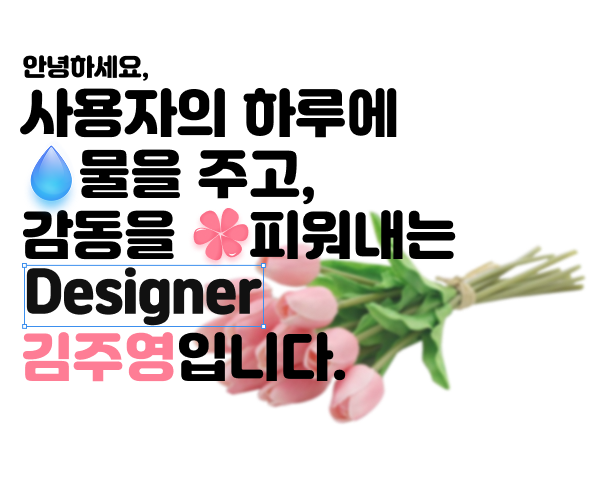
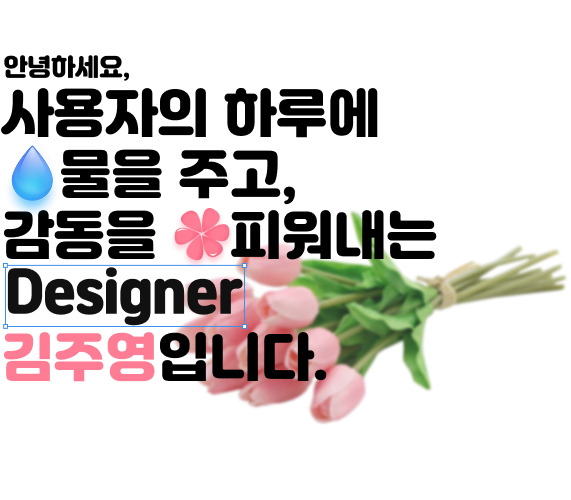
20250513

diff --git a/portfolio/style.css b/portfolio/style.css
@@ -153,12 +153,11 @@ header .box2>.email p {
 .home {
     background-color: #FFF;
     width: 100%;
-    /* height: calc(100vh - 160px) ; */
+    height: auto;
     box-shadow: 4px 10px 20px rgba(0, 0, 0, 0.25);
-    display: flex;
-    justify-content: center;
-    padding-bottom: 40px;
-    margin-top: 80px;
+    padding: 0 5%;
+    padding-bottom: 56px;
+    box-sizing: border-box;
 }
 .mainImg {
     width: 100%;
@@ -166,8 +165,12 @@ header .box2>.email p {
     /* padding-top: 34.72%; */
     margin: 0 auto;
     display: flex;
+    justify-content: center;
     position: relative;
-    overflow: hidden;
+}
+.mainImg img {
+    width: 100%;
+    padding: 0 5%;
 }
 
 .mainImg .leftBox {
@@ -240,13 +243,14 @@ header .box2>.email p {
 
 
 .LatestWork {
+    width: 100%;
     display: flex;
-    justify-content: center;
+    justify-content: space-between;
     align-items: center;
     margin-bottom: 24px;
 }
 .LatestWork .line {
-    width: 40%;
+    width: 45%;
     height: 1px;
     background-color: #c9c9c9;
 }
@@ -258,17 +262,19 @@ header .box2>.email p {
 }
 .latestBox {
     display: flex;
-    justify-content: center;
+    justify-content: space-between;
+    width: 100%;
+    max-width: 1024px;
+    margin: 0 auto;
 }
 .latestBox>div {
-    width: 250px;
+    width: 32%;
     height: 220px;
     border: 1px solid #c9c9c9;
     border-radius: 10px;
     background-color: #fff;
     padding: 8px;
     box-sizing: border-box;
-    margin: 0 12px;
     cursor: pointer;
     transition: all 0.5s;
     position: relative;
@@ -278,23 +284,29 @@ header .box2>.email p {
     box-shadow: 0 4px 6px rgba(0, 0, 0, 0.25);
 }
 .latestBox>div .imgBox {
-    width: 232px;
+    width: 100%;
     height: 120px;
     background-color: #ECECEC;
     overflow: hidden;
     border-top-left-radius: 10px;
     border-top-right-radius: 10px;
 }
-.latestBox>div .imgBox img {}
+.latestBox>div .imgBox img {
+    width: auto;
+    height: auto;
+    display: block;
+}
 .latestBox>div p {
     font-size: 14px;
     font-weight: 600;
     margin-top: 12px;
+    font-family: "inter", sans-serif;
 }
 .latestBox>div span {
     font-size: 12px;
     margin-top: 4px;
     color: #428EFF;
+    font-family: "inter", sans-serif;
 }
 .latestBox>div i {
     position: absolute;
@@ -354,7 +366,8 @@ header .box2>.email p {
     font-weight: normal;
 }
 .about .graph {
-    width: 1024px;
+    width: 100%;
+    max-width: 1024px;
     height: 320px;
     margin: 0 auto;
     display: flex;
@@ -372,6 +385,8 @@ header .box2>.email p {
     height: 100%;
     margin-left: 16px;
     position: relative;
+    left: 0;
+    top: 0;
 }
 .about .graph .level_line .line {
     width: 100%;
@@ -381,11 +396,13 @@ header .box2>.email p {
 }
 .about .graph .level_line .stick {
     position: absolute;
+    width: 100%;
     height: 100%;
     left: 50%;
     bottom: 0;
     transform: translateX(-50%);
     display: flex;
+    justify-content: center;
     align-items: flex-end;
 }
 .about .graph .level_line .stick>div {
@@ -476,55 +493,55 @@ header .box2>.email p {
 .portfolio .prothum {
     width: 100%;
     display: flex;
-    justify-content: center;
+    justify-content: space-between;
     margin-top: 40px;
 }
 .portfolio .prothum article {
-    width: 33.3333%;
+    width: 30%;
     height: 572px;
     display: flex;
     flex-direction: column;
     /* justify-content: center; */
     align-items: center;
-    margin: 0 40px;
 }
 .portfolio .prothum article .mockup {
     cursor: pointer;
+    display: flex;
+    flex-direction: column;
+    align-items: center;
 }
 .portfolio .prothum article .mockup .mockup01 {
-    display: flex;
-    justify-content: center;
+    position: relative;
 }
 .portfolio .prothum article .mockup .mockup01>img {
-    position: relative;
+    height: 100%;
     display: flex;
     justify-content: center;
 }
 .portfolio .prothum article .mockup .mockup01 .imgBox {
-    width: 143px;
-    height: 254px;
+    width: 142px;
+    height: 253px;
     overflow: hidden;
     background-color: #428EFF;
     position: absolute;
-    margin-left: -2px;
-    margin-top: 3px;
+    top: 3px;
+    left: 50%;
+    transform: translateX(-50%);
 }
 .portfolio .prothum article .mockup .mockup01 .imgBox img {
-    width: 143px;
-    top: 0;
-    left: 0;
+    width: 100%;
     position: absolute;
     left: 0;
     top: 0;
     transition: all ease-in-out 1.5s;
 }
-.portfolio .prothum article:nth-child(1) .mockup:hover .imgBox img {
+.portfolio .prothum article:nth-child(1) .mockup:hover .imgBox img{
     transform: translateY(-548px);
 }
-.portfolio .prothum article:nth-child(2) .mockup:hover .imgBox img {
-    transform: translateY(-509px);
+.portfolio .prothum article:nth-child(2) .mockup:hover .imgBox img{
+    transform: translateY(-480px);
 }
-.portfolio .prothum article:nth-child(3) .mockup:hover .imgBox img {
+.portfolio .prothum article:nth-child(3) .mockup:hover .imgBox img{
     transform: translateY(-145px);
 }
 .portfolio .prothum article h3 {
@@ -907,7 +924,7 @@ footer p {
         height: 100vw;
     }
     .LatestWork .line {
-        width: 30%;
+        width: 35%;
     }
     .LatestWork {
         margin-top: 24px;
@@ -922,14 +939,20 @@ footer p {
     .latestBox>div {
         width: 100%;
         height: 80px;
-        margin: 4px 5%;
+        margin: 4px 0;
         padding: 4px;
         display: flex;
     }
     .latestBox>div .imgBox {
-        width: 70px;
-        height: 70px;
+        width: 67px;
+        height: 100%;
         border-radius: 10px;
+        flex-shrink: 0;
+    }
+    .latestBox>div .imgBox img {
+        width: 100%;
+        height: 100%;
+        object-fit: cover;
     }
     .latestBox>div .txt {
         margin-left: 16px;
@@ -1069,6 +1092,8 @@ footer p {
     .mainImg .rightBox .tablet {
         display: block;
     }
+    /* home */
+
     /* about */
     .about .graph {
         width: 100%;
@@ -1088,9 +1113,10 @@ footer p {
         height: 86px;
     }
     .portfolio .prothum {
-        width: 100vw;
+        width: 100%;
+        justify-content: space-between;
     }
     .portfolio .prothum article {
-        width: 33.3333vw;
+        margin: 0;
     }
 }
